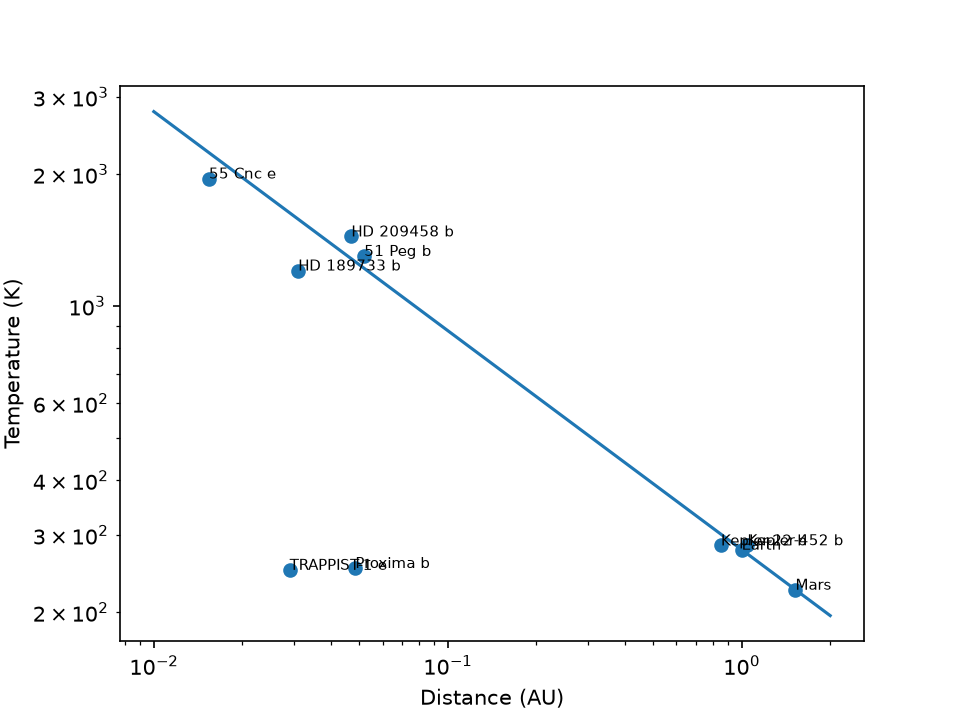
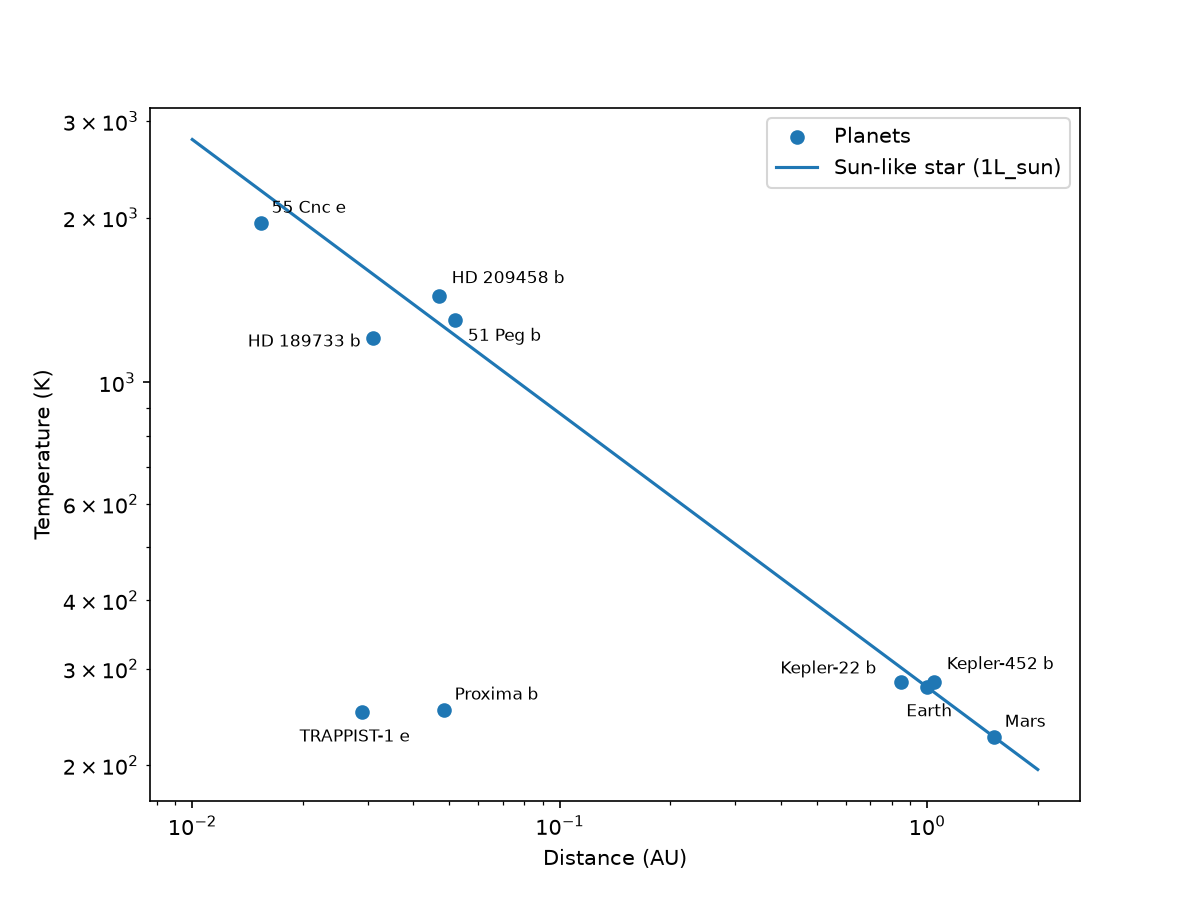
pod 6 progress 27th oct

diff --git a/module-4/planets_plot.py b/module-4/planets_plot.py
@@ -22,9 +22,9 @@ if __name__ == "__main__":
     #equilibrium temp of each planet
     T = t_eq(lum * L_SUN, dist * AU)
     #create figure and set of axes
-    fig, ax = plt.subplots() 
+    fig, ax = plt.subplots(figsize = (8,6)) 
     #plot each planet as a point, distance in AU and temp in K
-    ax.scatter(dist, T)
+    ax.scatter(dist, T, label = "Planets")
     ax.set_xlabel("Distance (AU)")
     ax.set_ylabel("Temperature (K)")
     #build curve, 0.01 to 2 AU
@@ -33,9 +33,21 @@ if __name__ == "__main__":
     #change axis to log, curve will be a straight line
     ax.set_xscale("log") 
     ax.set_yscale("log")
-    ax.plot(d, T_curve)
+    ax.plot(d, T_curve, label = "Sun-like star (1L_sun)")
     #label each planet
+    # custom (x, y) offsets in points for planets in crowded spots
+    offsets = {
+        "HD 209458 b":  (6, 6),
+        "51 Peg b":     (6, -10),
+        "HD 189733 b":  (-60, -4),
+        "Kepler-22 b":  (-58, 4),
+        "Earth":        (-10, -14),
+        "Kepler-452 b": (6, 6),
+        "TRAPPIST-1 e": (-30, -14),
+    }
     for n, x, y in zip(name, dist, T):
-        ax.annotate(n, (x, y), fontsize=7)
+        dx, dy = offsets.get(n, (5, 5))   # everyone else: up and right
+        ax.annotate(n, (x, y), xytext=(dx, dy), textcoords="offset points", fontsize=8)
+    ax.legend()
     fig.savefig("module-4/planets.png", dpi=150)
     print("wrote module-4/planets.png")
